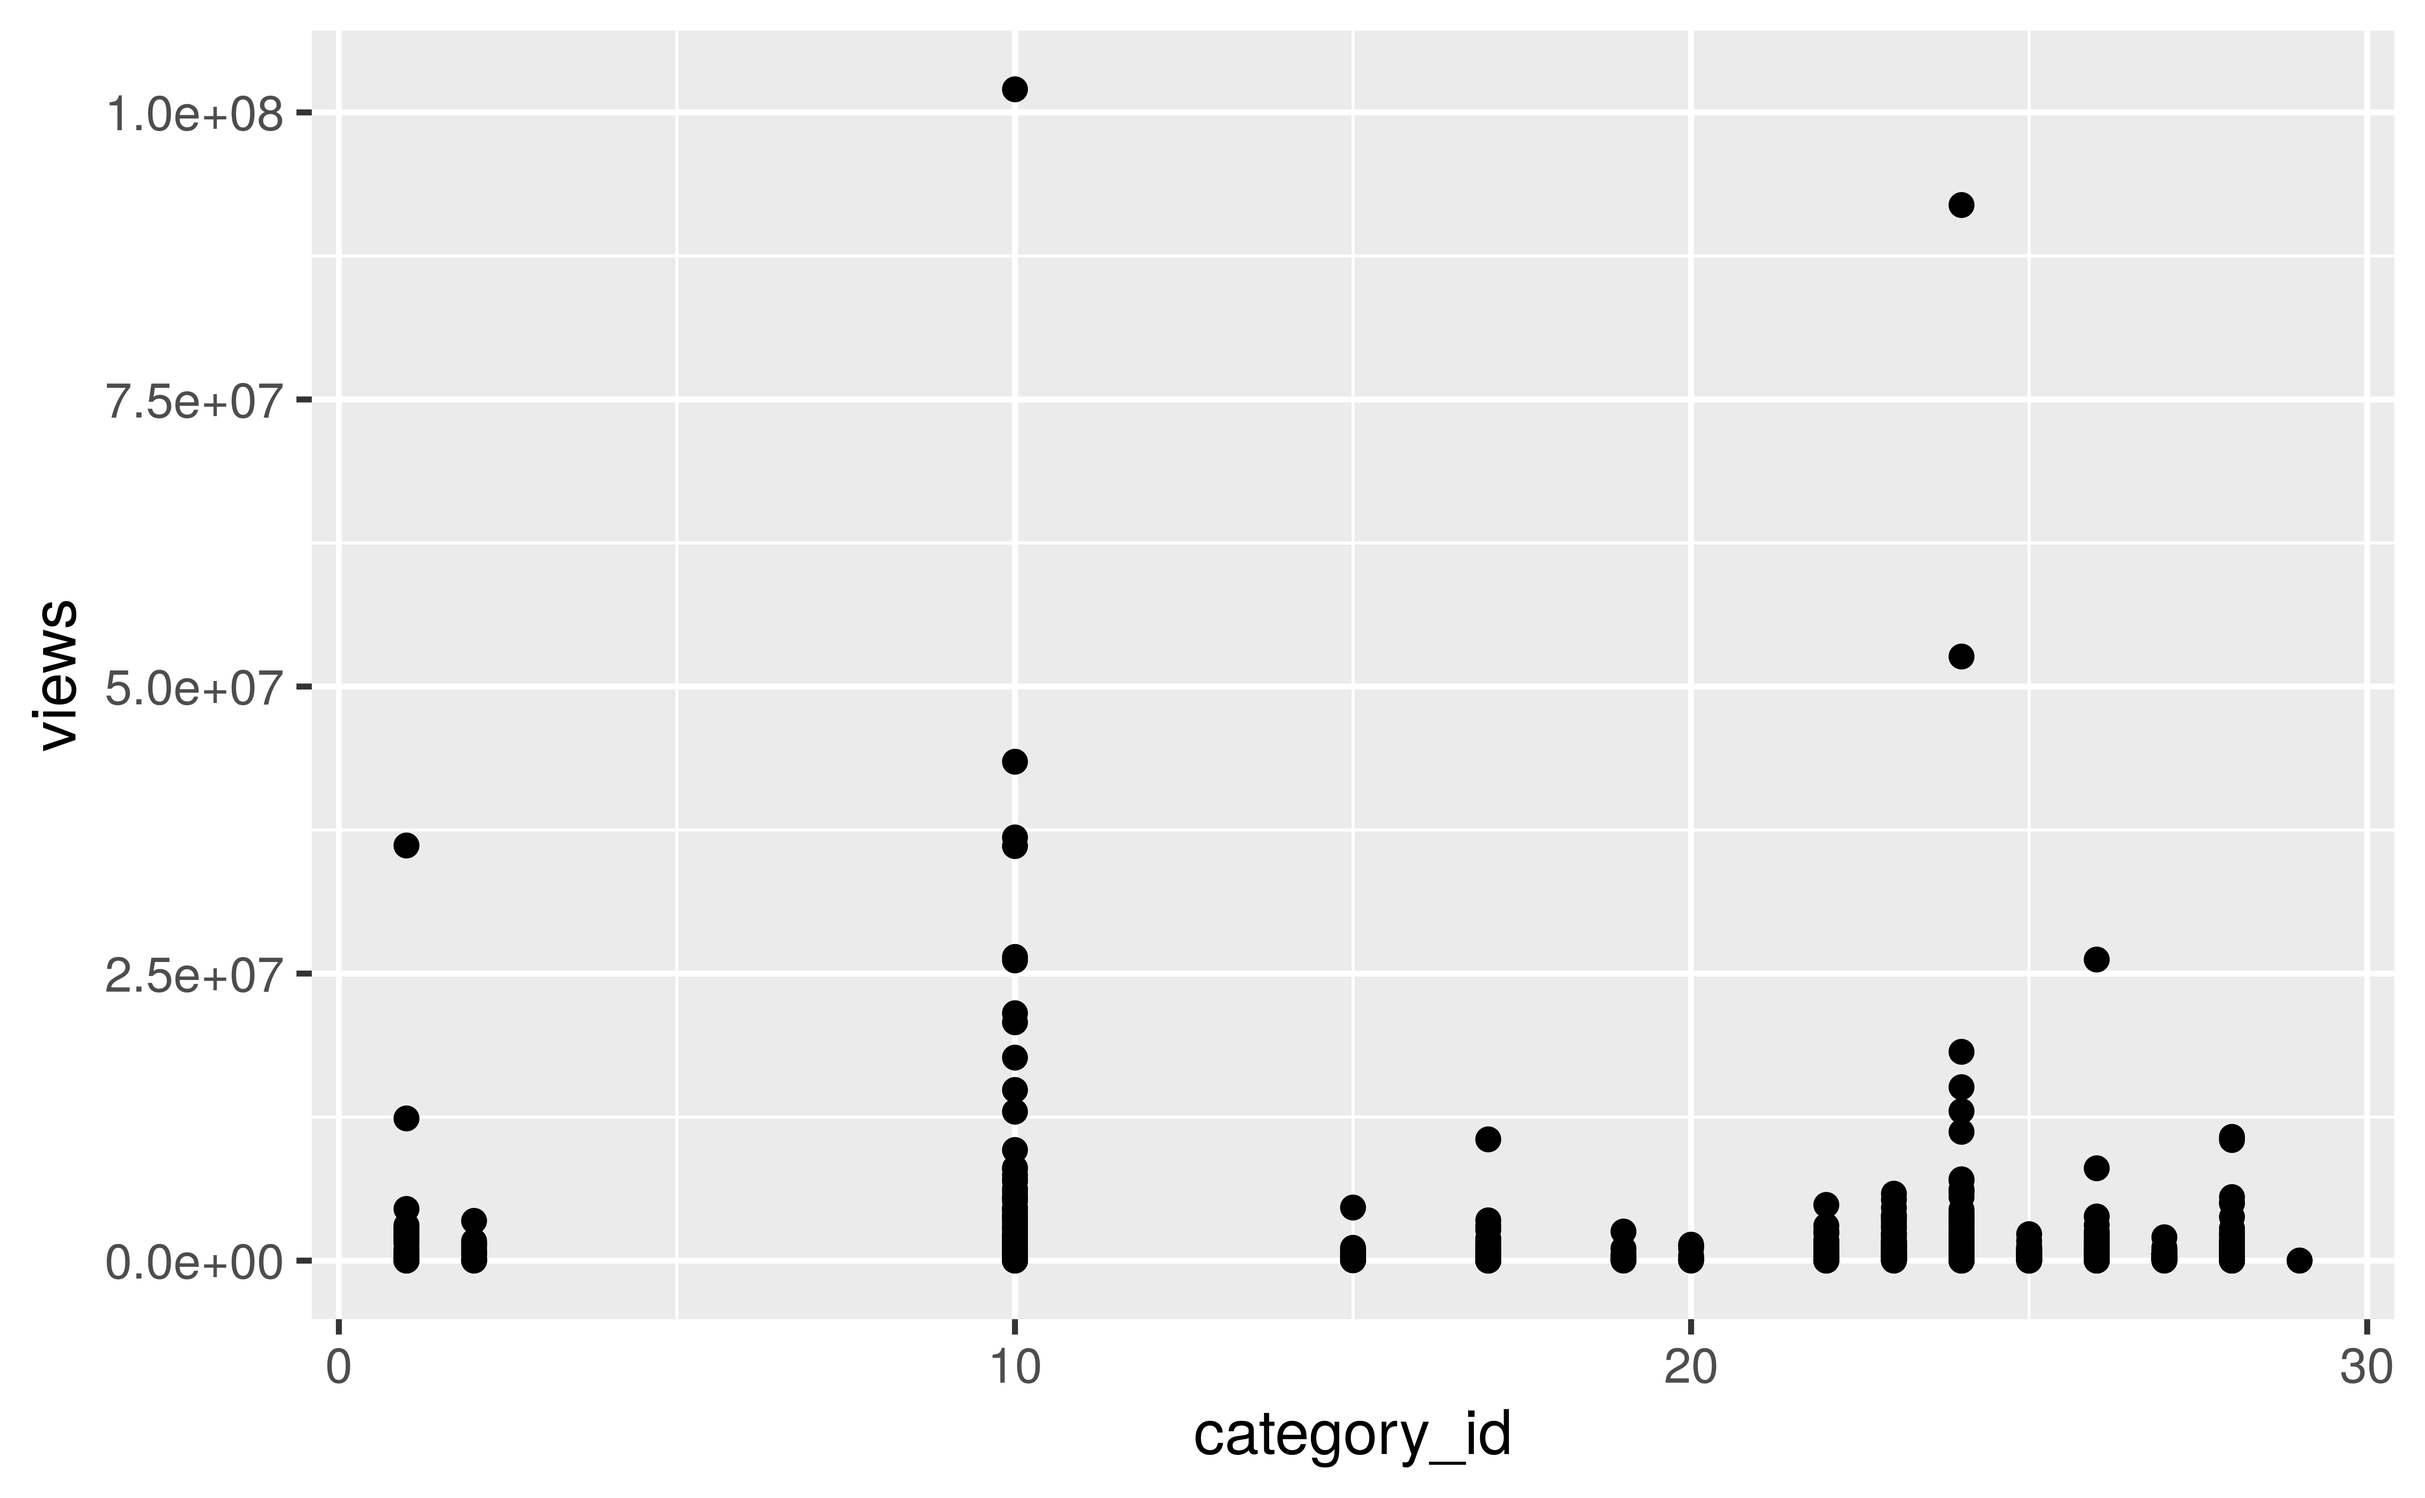
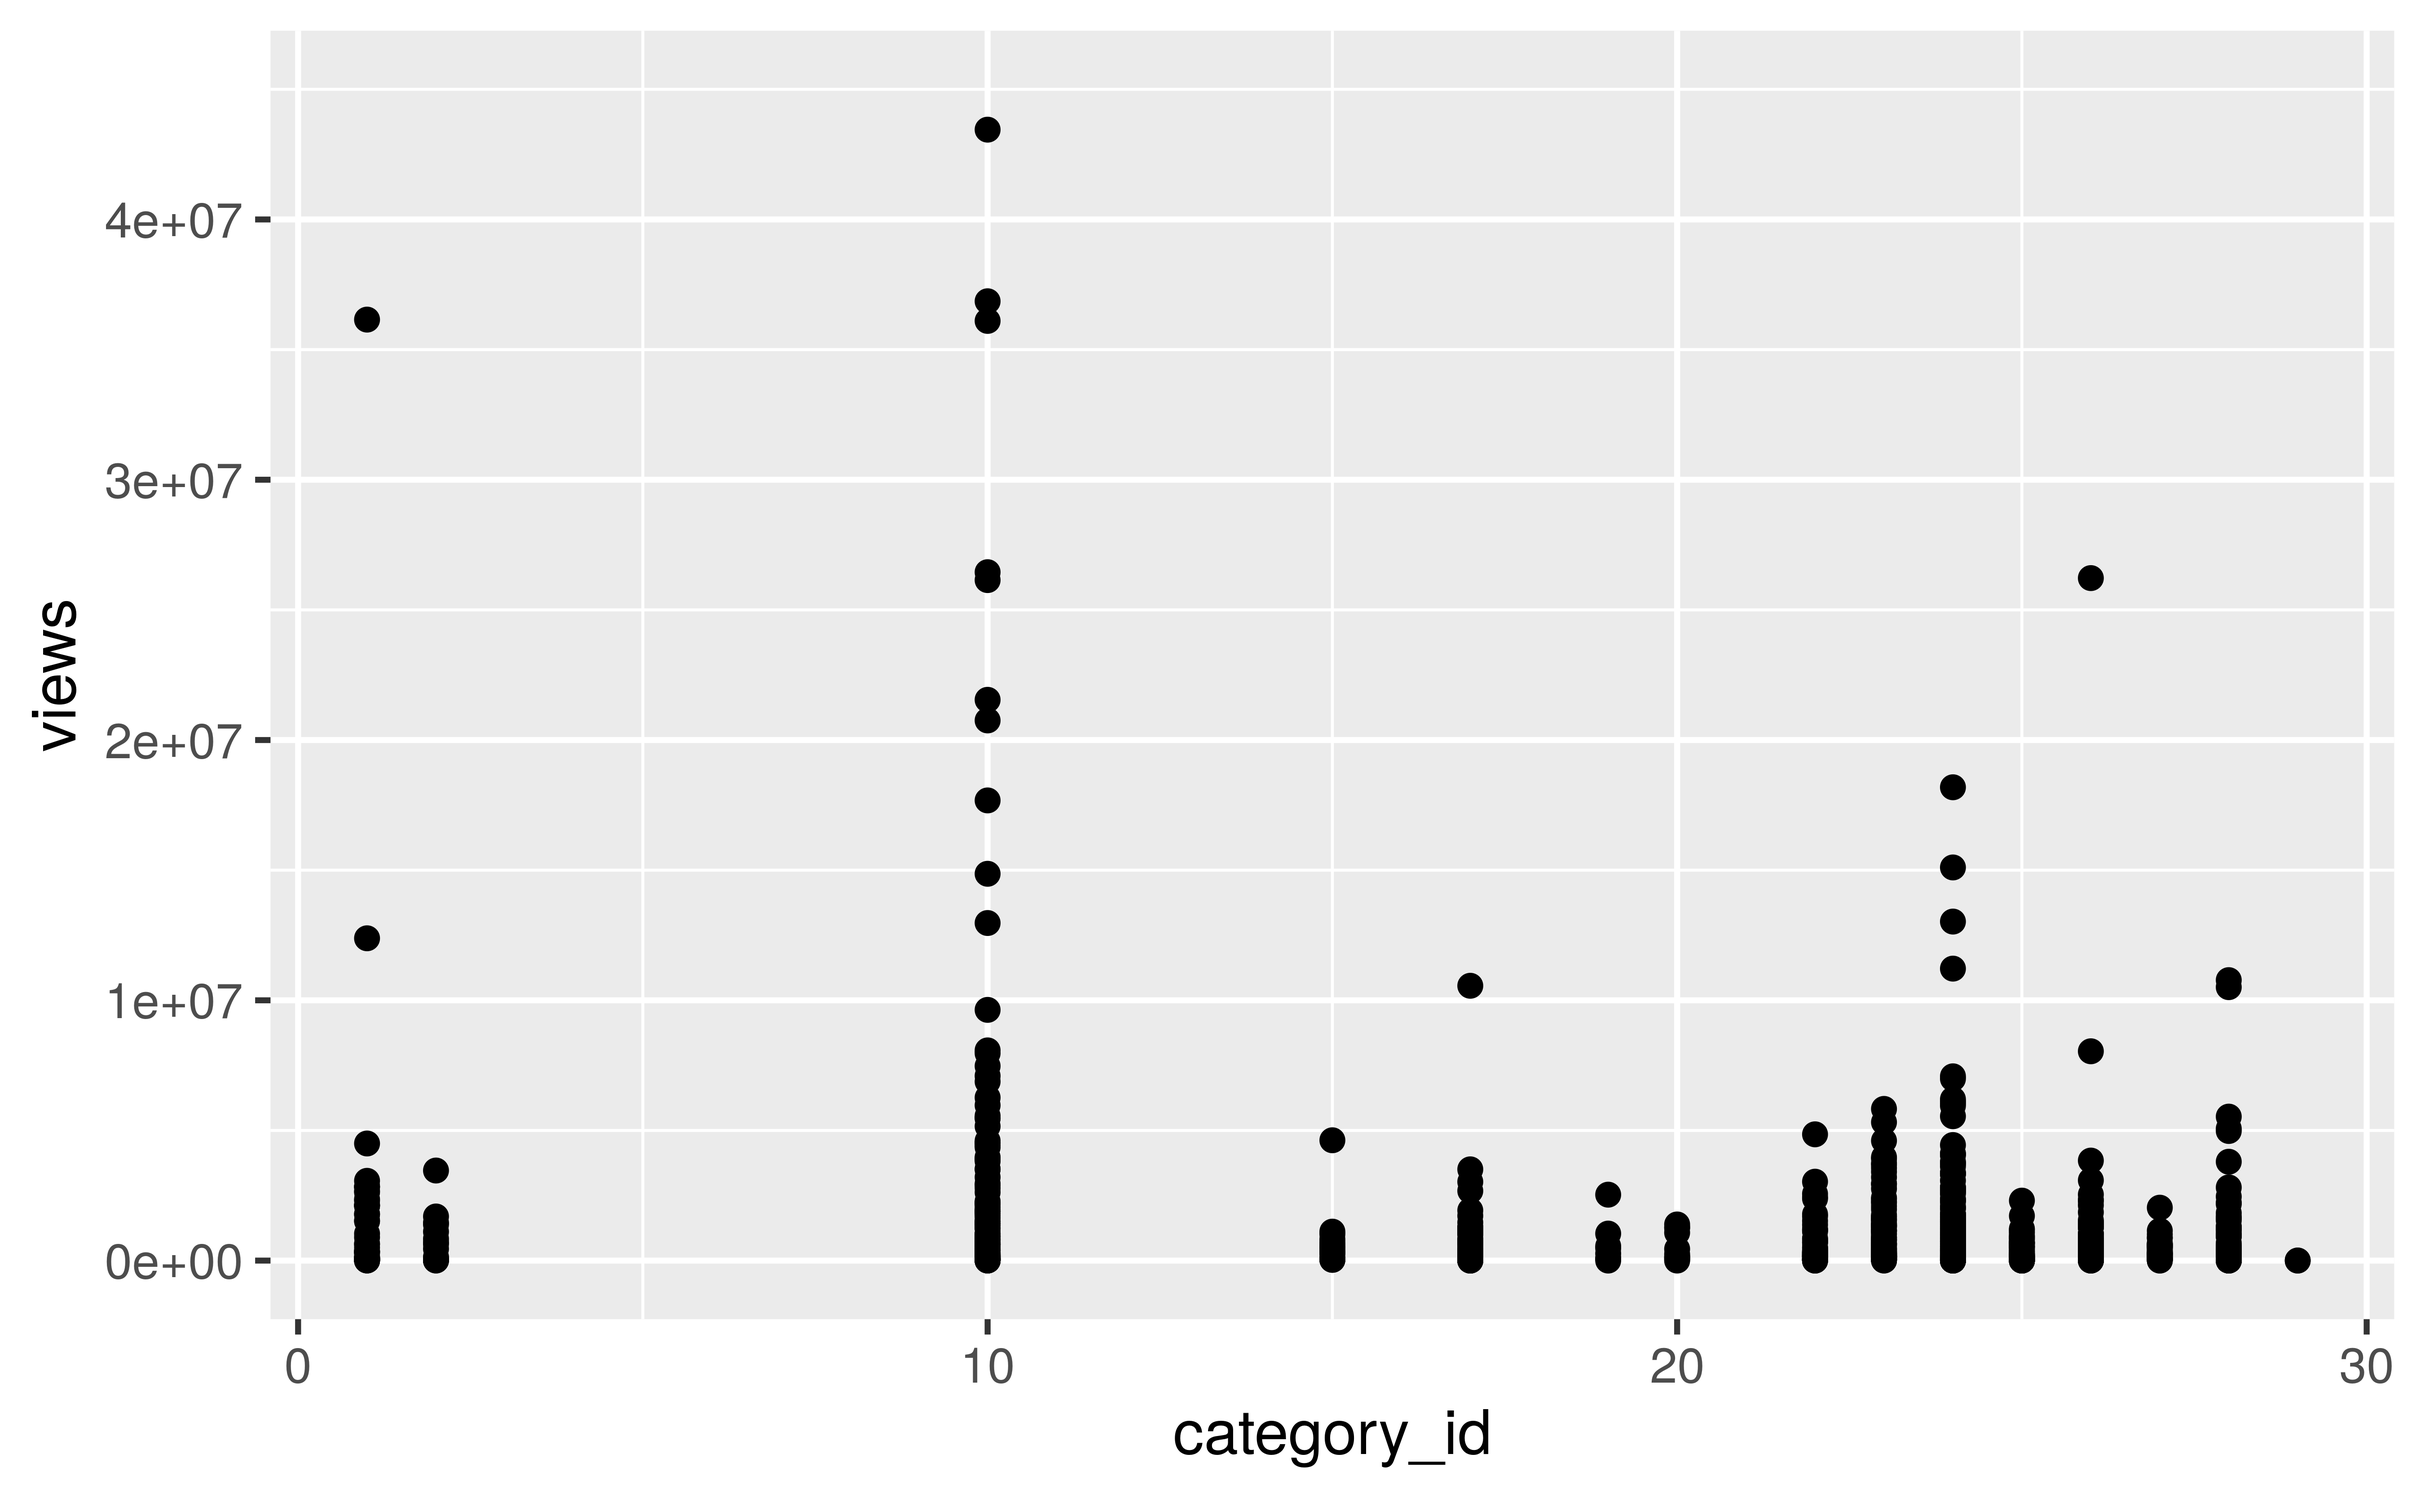
Mask off

diff --git a/presentation/presentation.html b/presentation/presentation.html
@@ -216,6 +216,11 @@ class: inverse, middle, center
 # What is the most popular category?
 
 
+
+```
+## Warning: Removed 3 rows containing missing values (geom_point).
+```
+
 &lt;img src="presentation_files/figure-html/popular-categories-1.png" width="80%" /&gt;
 
 ---
